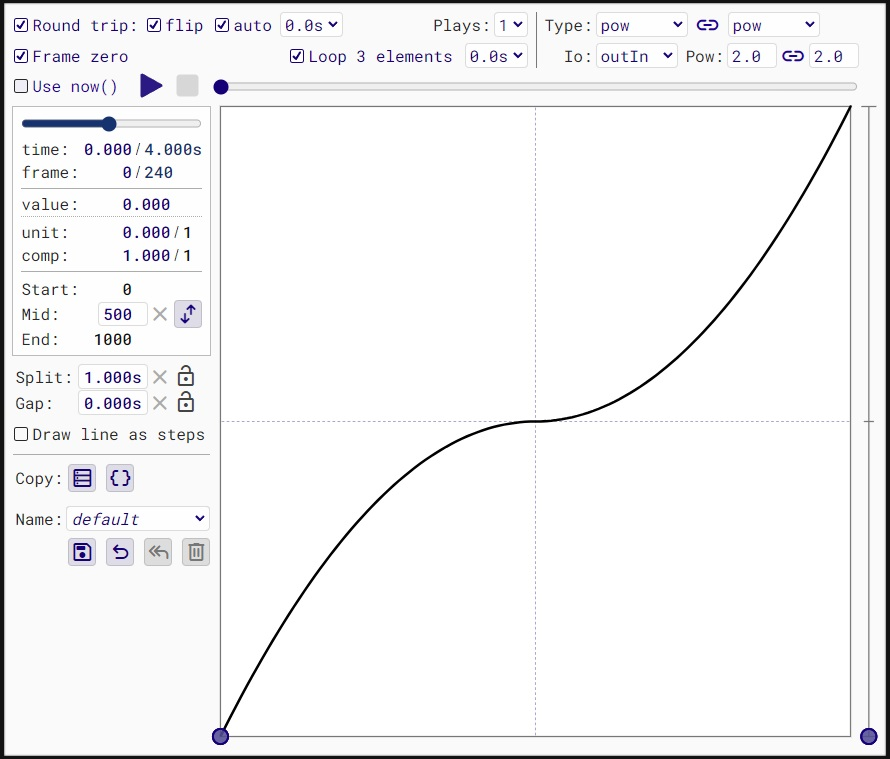
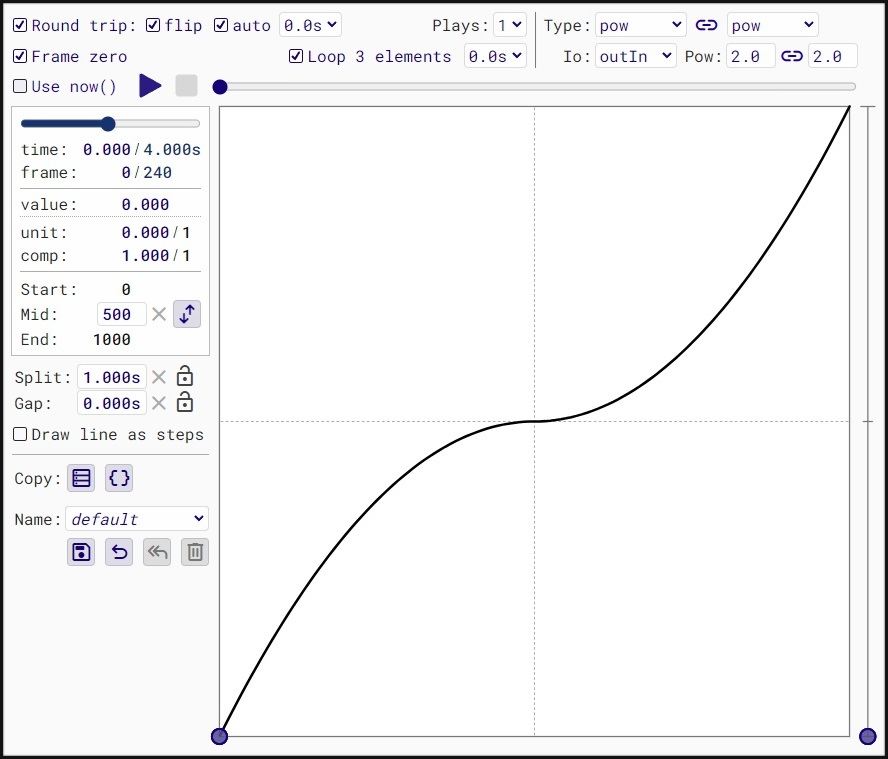
/img filling up, app fixes, offset.svg

diff --git a/apps/index.html b/apps/index.html
@@ -9,55 +9,73 @@
 <!--<h1><object data="/raf/rAFoffset.svg" type="image/svg+xml" style="width:180px; height:180px; border:none;"></object>Apps</h1>-->
     <div style="display:flex; flex-direction:column; width:33%;">
       <div style="display:flex; align-items:center;">
-        <object data="/raf/rAFoffset.svg" type="image/svg+xml" style="width:180px; height:180px;"></object>
+        <object data="/raf/img/rAFoffset.svg" type="image/svg+xml" style="width:180px; height:180px;"></object>
         <h1>Apps</h1>
       </div>
-      <p>These apps were initially conceived for testing the library; then as a way to demonstrate the library; then as a way to generate JavaScript animation code to help fill in for the lack of formal documentation. They all contain Copy Data buttons that copy tabular animation data to the clipboard for analysis and testing. To the right of that button is the Copy Code button, which generates JavaScript code for user-configured animation and copies it to the clipboard.</p>
+      <p>These apps were initially conceived for testing the library; then as a way to demonstrate the library; then as a way to generate JavaScript animation code to help fill in for the lack of formal documentation. They all contain Copy Data buttons that copy tabular animation data to the clipboard for validation and analysis. To the immediate right is the Copy Code button, which generates JavaScript code for the currently configured animation and copies it.</p>
+      <p><span class="rAF">rAF</span> offers a wide variety of interdependent features. Some properties are arrays of user-defined length. Fitting all that into a suite of apps, much less a single app, is not necessarily desirable. It's certainly a monster to code and probably a monster to use. The apps, Easings in particular, limit the available values for some properties in order to make the interface simpler while still meeting testing requirements. The auto-generated JavaScript code is meant as a starting point, not a finished animation. You have to supply your own HTMLElement, SVGElement, or CSSStyleRule regardless. It's should be simple to alter the property values generated by the app and adapt the code to your web page.</p>
+      <p><span class="rAF">rAF</span> uses <a href="https://developer.mozilla.org/en-US/docs/Web/JavaScript/Reference/Classes/Private_properties">private properties</a>, which are not supported by some older versions of browsers. If your browser is not up to date, or if you're using an older device/OS, see <a href="https://caniuse.com/?search=private%20class">caniuse.com</a> for which browser versions offer support (currently 93.07% global support). If the app page doesn't display, this is probably the issue. You might check the Developer Tools console to see if there is any info there.</p>
+      <p>Note that the apps use seconds for the time units. <span class="rAF">rAF</span> uses milliseconds.</p>
+
       <h2>There are three apps available:</h2>
-      <p class="bullet">&#x25CF;&ensp;<a class="bullet" href="/raf/apps/easings">Easings</a><span>&#x2004;are timing functions that can be chained.</span></p>
-      <p class="bullet">&#x25CF;&ensp;<a class="bullet" href="/raf/apps/multi">Multi-Ease</a><span>&#x2004;is multiple easings applied to a single property.</span></p>
-      <p class="bullet">&#x25CF;&ensp;<a class="bullet" href="/raf/apps/color">Color</a><span>&#x2004;applies easings and multi-eases to CSS and Color.js colors.</span></p>
+      <p class="bullet">&#x25CF;&ensp;<a class="bullet" href="/raf/apps/easings">Easings </a>
+        <span class="bullet">are animation timing functions that you can chain.</span>
+      </p>
+      <p class="bullet">&#x25CF;&ensp;<a class="bullet" href="/raf/apps/multi">Multi-Ease </a>
+        <span class="bullet">is multiple easings applied to a single property.</span>
+      </p>
+      <p class="bullet">&#x25CF;&ensp;<a class="bullet" href="/raf/apps/color">Color </a>
+        <span class="bullet">applies easings and multi-eases to CSS and Color.js colors.</span>
+      </p>
 
       <h2 id="easings">Easings</h2>
-      <img src="/raf/img/easings.jpg"/>
-      <p>The Easings app is not for most mobile devices. At or below 675px wide by 749px tall it reduces its size to 75% and bottoms out there.</p>
-      <p>This app allows you to design one or two-legged timing patterns. Timing functions include standard CSS and JQuery functions, with several enhancements. Steps functions are significantly enhanced, with the ability to apply a non-steps easing function to the steps values, timing, or both.  Instead of the JQuery model of separate functions for exponents 2-5, rAF lets you specify any number that the <span class="code">Math.pow()</span> function accepts. And more...</p>
-      <p>The chart is a 1000 x 1000 SVG canvas. You'll note that the Start and End fields generally display either 0 or 1000, reflecting the Y axis value in the chart, the animated value. The X axis is time.</p>
-      <p>What follows is in the terminology of rAF, which is not the same as the labels in the app, but they are similar enough and the text is organized around the app's layout.</p>
+      <img src="/raf/img/easings.jpg" class="scale"/>
+      <p>The Easings app is not designed for mobile phones. At or below 675px wide by 749px tall it reduces its size to 75% and bottoms out there.</p>
+      <p>This app allows you to design one or two-legged timing patterns in a CSS-like model, with flexible ease-in and ease-out settings. <span class="rAF">rAF</span> allows for unlimited legs, but fitting that in an app is awkward. For user convenience, <span class="rAF">rAF</span> also has settings that mimic this same CSS-like model, and this tests most of those features.</p>
+      <p>Timing functions include standard CSS and JQuery functions, with several enhancements. Steps functions are significantly enhanced, with the ability to apply a non-steps easing function to the steps values, timing, or both.  Instead of the JQuery model of separate functions for exponents 2-5, <span class="rAF">rAF</span> lets you specify any number that the <span>Math.pow()</span> function accepts. And more...</p>
+      <p>The chart is a 1000 x 1000 SVG canvas, with extra vertical headroom for out of range values &lt;0 and &gt;1000. You'll note that the Start and End fields generally display either 0 or 1000, reflecting the Y axis in the chart, the animated value. The X axis is time, so the numeric display is in seconds, not chart units.</p>
+      <p style="font-style:italic">What follows is in the terminology of <span class="rAF">rAF</span>, which is not the same as the labels in the app, but they are similar enough and it's organized around the app's layout.</p>
       <p>There are 4 Round Trip properties:
-        <br>&emsp;3 booleans: <span class="code">roundTrip flipTrip autoTrip</span>
-        <br>&emsp;1 number: <span class="code">tripWait</span>
+        <br>&emsp;3 booleans: <span>roundTrip flipTrip autoTrip</span>
+        <br>&emsp;1 number: <span>tripWait</span>
       </p>
-      <p><span class="code">roundTrip</span> turns the feature on or off and enables or disables the other 3 properties.</p>
-      <p><span class="code">flipTrip</span> defaults to true, wherein the return aka inbound trip follows the same line as the outbound trip. Setting flipTrip to false causes the inbound trip's line to mirror the outbound trip. Give it a try with any <span class="code">type</span> other than <span class="code">linear</span>, and the chart will illustrate it clearly. It has no effect on linear.</p>
-      <p><span class="code">autoTrip</span> also defaults to true, wherein the animation automatically executes the inbound trip after the outbound trip ends.  The more unusual setting is false, where the animation stops at the end of the outbound trip, but stays in that state so the user can initiate the return trip. You cannot combine <span class="code">autoTrip</span> = false with <span class="code">plays</span> = greater than 1.</p>
-      <p><span class="code">tripWait</span> is the number of milliseconds to wait between the end of the outbound trip and the start of the inbound trip.  It affects <span class="code">autoTrip</span> = false too, acting the same as the <span class="code">Easy.prototype.wait</span> property does for the outbound trip. (The <span class="code">wait</span> property is not included in this app as there are already too many inputs and it's easily tested.)</p>
-      <p><span class="code">plays</span> is the number of times the animation plays. It is a minimum of 1. The app limits it to a max of 3.</p>
-      <p><span class="code">plays</span> and <span class="code">loopByElm</span> share a drop-down and a property: <span class="code">loopWait</span> is the number milliseconds between plays or loops by element.</p>
-      <p><span class="code">loopByElm</span> is a boolean that causes the animation to loop one element at a time.</p>
-      <p><span class="code">frameZero</span> is in the app for testing only. It's a fine detail of a setting that I'm not going to explain here now. If you're really curious look at the code in <span class="code">aframe.js</span>, which has some explanatory comments.</p>
-      <p><span class="code">useNow</span> uses <span class="code">performance.now()</span> as its time source instead of the <span class="code">requestAnimationFrame()</span> timestamps and <span class="code">document.timeline.currentTime</span>.</p>
+      <p><span>roundTrip</span> turns the feature on or off and enables or disables the other 3 properties.</p>
+      <p><span>flipTrip</span> defaults to <span>true</span>: the return aka inbound trip follows the same line as the outbound trip. Setting flipTrip to <span>false</span> causes the inbound trip's line to mirror the outbound trip. Give it a try with any <span>type</span> other than <span>linear</span>, and the chart will illustrate it clearly. It makes no difference for linear.</p>
+      <p><span>autoTrip</span> also defaults to <span>true</span>: the animation automatically executes the inbound trip after the outbound trip ends.  The more unusual setting is <span>false</span>, where the animation stops at the end of the outbound trip, but stays in that state so the user can initiate the return trip. You cannot combine <span>autoTrip</span> = <span>false</span> with <span>plays</span> = greater than 1.</p>
+      <p><span>tripWait</span> is the number of milliseconds to wait between the end of the outbound trip and the start of the inbound trip.  It affects <span>autoTrip</span> = <span>false</span> too, acting the same as the <span>Easy.prototype.wait</span> property does for the outbound trip. (The <span>wait</span> property is not included in this app as there are already too many inputs and it's easily tested.)</p>
+      <p><span>plays</span> is the number of times the animation plays. It is an integer, minimum of 1. The app limits it to a max of 3.</p>
+      <p><span>plays</span> and <span>loopByElm</span> share a drop-down and a property: <span>loopWait</span> is the number milliseconds between plays or loops by element. The app limits it via the drop-down options.</p>
+      <p><span>loopByElm</span> is a boolean that causes the animation to loop one element at a time.</p>
+      <p><span>frameZero</span> is in the app for testing only. It's a fine detail of a setting that I'm not going to explain here now. If you're really curious look at the code in <span>aframe.js</span>, which has some explanatory comments.</p>
+      <p><span>useNow</span> uses <span>performance.now()</span> instead of the <span>requestAnimationFrame()</span> timestamps and <span>document.timeline.currentTime</span>.</p>
+      <p><span>mid</span>, <span>split</span>, <span>gap</span> are for two-legged easings only. They are shorthands for individual leg properties.</p>
+      <p><span>mid</span> is the animation value at which the legs change. Defaults to 50% of the distance, in this case 500.</p>
+      <p><span>split</span> is the animation time at which the legs change. Defaults to 50%.</p>
+      <p><span>gap</span> is the number of milliseconds to wait between the end of the first leg and the start of the second. Defaults to zero.</p>
+      <p><span class="bullet" style="font-weight:500;">Draw line as steps</span> is not an <span class="rAF">rAF</span> feature. It is an app feature that draws the chart's line as one step per frame. It's especially useful for viewing multiple frames with a static value, as with <span>gap</span>.</p>
 
       <h2 id="multi">Multi-Ease</h2>
+      <img src="/raf/img/multi.jpg"/>
       <p>The Multi-Ease app is designed to be used on recent mobile devices as well as desktops. Baseline size is ....</p>
-      <p>This app allows you to configure animations where you choose a separate timing pattern for each argument in a CSS property or function. It is fixed at 3 timing patterns, which is enough to test, demonstrate, and create starting point code. It animates the CSS <span class="code">clip-path</span> property using the <span class="code">polygon()</span> function. Multi-eases can apply to properties/functions that have multiple arguments, or to "unstructured" properties/functions such as gradients and shapes.</p>
+      <p>This app allows you to configure animations where you choose a separate timing pattern for each argument in a CSS property or function. It is fixed at 3 timing patterns, which is enough to test, demonstrate, and create starting point code. It animates the CSS <span>clip-path</span> property using the <span>polygon()</span> function. The shape is filled with a diagonal gradient to prove that it's one shape. Multi-eases can apply to properties/functions that have multiple arguments, or to "unstructured" properties/functions such as gradients and shapes.</p>
 
       <h2 id="color">Color</h2>
+      <img src="/raf/img/color.jpg"/>
       <p>The Color app is designed to be used on recent mobile devices as well as desktops. Baseline size is ....</p>
-      <p>This app allows you to configure and view color animations using CSS and <a href="https://colorjs.io">Color.js</a> color spaces. You can assign any preset or user easing or multi-ease to the animation. In addition it offers a side-by-side comparison mode where you can compare the same animation for two color spaces.</p>
+      <p>This app allows you to configure and view color animations using CSS and <a href="https://colorjs.io">Color.js</a> color spaces. You can assign any preset or user easing or multi-ease to the animation. It offers a side-by-side comparison mode where you can compare the same animation across two color spaces. You must turn Compare off to access the Copy buttons, which are for a single color. With Compare off you can also highlight out-of-gamut values.</p>
 
       <h2 id="common-features">Common Features</h2>
-      <p>All the apps have tooltips for most of the controls. They are enabled by hovering the mouse pointer over the control. If you only have a touch interface then you'd be out of luck were it not for this bit of documentation. The tooltips are implemented in the standard way, as <span class="code">title</span> attribute values.</p>
-      <img src="/raf/img/playback.jpg"/>
-      <p>The playback and time navigation controls are quite standard. Two playback buttons that default to Play and Stop. They change icons during playback to Pause/Resume and Reset. The slider aka range control navigates time when playback is idle. During playback it animates, but is disabled for user control.</p>
-      <img src="/raf/img/named+copy.jpg" style="margin-top:0.75rem"/>
+      <p>All the apps have tooltips for most of the controls. They are enabled by hovering the mouse pointer over the control. If you only have a touch interface then you'd be out of luck were it not for this bit of documentation. The tooltips are implemented in the standard way, as <span>title</span> attribute values.</p>
+      <img src="/raf/img/playback.jpg" class="sub"/>
+      <p>The playback and time navigation controls are quite standard. Two playback buttons that default to Play and Stop. They change icons during playback to Pause/Resume and Reset. The slider aka range control navigates time when playback is idle. During playback it animates, but is disabled for user control. The slider is rendered differently by each browser and I have not gone the extra mile to style it with the browser-specific CSS tags/properties. The images above are all from Chrome.</p>
+      <img src="/raf/img/named+copy.jpg" class="sub"/>
       <p>All the apps have one or more drop-down lists for selecting a named easing or multi. In the Easings and Multi apps the primary one is labeled Name. For steps, Easings has two more such drop-downs, one for Timing, the other for Values. Multi has three of them labeled Easy.  In the Color app they are labeled Easy and Multi.</p>
-      <p>These drop-downs contain presets supplied by the app. In Easings and Multi you can and user-defined configurations as well. Those are saved to <span class="code">localStorage</span>. They are all available in Color, but Color does not have a save button to save its own settings.</p>
+      <p>These drop-downs contain presets supplied by the app. In Easings and Multi you can add user-defined configurations as well. Those are saved to <span>localStorage</span>. They are all available for selection in Color, but Color does not have a Save button.</p>
       <p>In Easings and Multi, there are 4 buttons that accompany the primary dropdown: Save, Revert to last saved, Revert to preset value, Delete user configuration (can't delete presets).</p>
       <p>There are two Copy buttons: Data and Code. Copy Data copies the currently displayed animation or pseudo-animation's data, by frame, to the clipboard. The clipboard data includes one row of text headers. The first column is always time. After that it varies by app. I use this feature to validate timing functions in a spreadsheet. I paste the data in and spread forumulas around to validate the numbers.</p>
-      <p>Copy Code generates starting point code for implementing the current animation, and copies it to the clipboard. I hope this helps users get started using and learning rAF. Custom examples is a nice way to get started, at least that's my hope.</p>
+      <p>Copy Code generates starting point code for implementing the current animation, and copies it to the clipboard. I hope this helps users get started using and learning <span class="rAF">rAF</span>. Custom examples is a nice way to get started, at least that's my hope.</p>
 
-      <p>If you're curious about the way rAF estimates the device/browser frame rate, open the Developer Tools console.  All the apps log the frame timing data and summaries used by  <span class="code">AFrame.prototype.fpsBaseline()</span> in the calculation. The JavaScript code that runs it is in <span class="code">/apps/load.js/loadFinally()</span>. I say "device/browser" frame rate because some devices don't make all their frame rates available to the browser.  My current Android phone is an example of that.</p>
+      <p>If you're curious as to how <span class="rAF">rAF</span> estimates the device/browser frame rate, open the Developer Tools console.  The apps log the frame timing data and summaries that  <span>AFrame.prototype.fpsBaseline()</span> uses to calculate it. The JavaScript code that runs the baseline calculation is in <span>/apps/load.js/loadFinally()</span>. I say "device/browser" frame rate because some devices don't make all their frame rates available to the browser.  My current Android phone does that.</p>
 
     </div>
   </body>

diff --git a/apps/load.js b/apps/load.js
@@ -52,18 +52,18 @@ async function loadCommon() {
         arr.push(document.getElementById(id));
 
     for (elm of arr)
-        dlg[elm.id] = elm;
+        Ez.readOnly(dlg, elm.id, elm);
 
     for (elm of byTag.flat())         // populate elms by id
         if (elm.id)                   // most <div>, <label>, <span>s have no id
-            elms[elm.id] = elm;
-                                      // elms.x doesn't disable the normal way
-    byTag[0].splice(byTag[0].indexOf(elms.x), 1);
-    Ez.readOnly(g, "buttons",  byTag[2]);          // <button>, see disablePlay()
-    Ez.readOnly(g, "playback", byTag.at(-3));      // <state-button> #play,#stop
+            elms[elm.id] =  elm;      // replaceWith(clone) in color: !readOnly
+
+    byTag[0].splice(byTag[0].indexOf(elms.x), 1);  // elms.x disables abnormally
     Ez.readOnly(g, "disables", [...byTag[0],       // <input>
                                 ...byTag[1],       // <select>
                                 ...byTag.at(-2)]); // <check-box>
+    Ez.readOnly(g, "buttons",  byTag[2]);          // <button>, see disablePlay()
+    Ez.readOnly(g, "playback", byTag.at(-3));      // <state-button> #play,#stop
     Ez.readOnly(g, "invalids", new Set);           // <input>s w/invalid values
 
     elm = elms.plays ?? elms.plays0;  // plays0 is multi

diff --git a/apps/index.css b/apps/index.css
@@ -38,7 +38,11 @@
   src:url("/fonts/ShipporiAntique-Regular.ttf") format("truetype");
 }
 img {
+  align-self:center;
   margin-bottom:0.75rem;
+}
+img.scale {
+  align-self:unset;
 }
 h1 {
   font-family:"Averia";
@@ -52,21 +56,31 @@ h2, p.bullet {
   font-family:"Radio Canada Big";
   font-weight:500;
 }
-h2 {
-  margin:0.5rem 0;
-  font-size:22px;
+h2, img.sub{
+  margin:0.75rem 0 0.5rem;
+  font-size:23px;
 }
 p.bullet {
-  margin:0.5rem;
+  margin:0.25rem 0 0.5rem;
   font-size:18px;
 }
 p {
   font-family:"Shippori Antique";
   margin:0 0 0.25rem;
 }
+p + p {
+  margin-top: 0.5rem;
+}
 span {
-  font-family:"Radio Canada Big";
+  font-family:"Roboto Mono";
   font-weight:400;
+}
+span.bullet {
+  font-family:"Radio Canada Big";
+}
+.rAF {
+  font-family:"Roboto Mono";
+  font-weight:500;
 }
 a {
   color:black;
@@ -76,11 +90,11 @@ a.bullet {
   text-decoration:none;
 }
 a:hover {
-  color:blue;
+  color:rgb(0 0 204);
 }
 a:active:hover {
   color:purple;
 }
 .code {
-  font-family:"Roboto Mono"
+  font-family:"Roboto Mono";
 }

diff --git a/apps/multi/_update.js b/apps/multi/_update.js
@@ -13,7 +13,7 @@ import {E, U, F, P, Easy} from "../../src/raf.js";
 import {ezX}            from "../load.js";
 import {storeCurrent}   from "../local-storage.js";
 import {COUNT, elms, g} from "../common.js";
-import {frames, pad, formatNumber, eGet, pseudoAnimate}
+import {D, frames, pad, formatNumber, eGet, pseudoAnimate}
                         from "../update.js";
 
 import {clipEnd, clipStart} from "./_load.js";
@@ -51,7 +51,9 @@ function newTargets(isPseudo) {                 // isPseudo is always defined
 //==============================================================================
 // getMsecs() returns the full run-time in milliseconds
 function getMsecs() {
-    return measer.duration;
+    const md = measer.duration;
+    pad.secs = D + (md >= 10000 ? 3 : 2);
+    return md;
 //!!let first, t;
 //!!const
 //!!trips = elms.trip .map( elm => elm.checked && P.isVisible(elm)),

diff --git a/apps/easings/_named.js b/apps/easings/_named.js
@@ -39,7 +39,7 @@ function formFromObj(obj) {
     elms.type.value = g.type;
     elms.io  .value = g.io;
 
-    val = obj.time || (leg0?.time + leg1?.time);
+    val = obj.time || (leg0?.time + leg1?.time + leg1?.wait);
     if (val)                   // steps: user time doesn't use obj.time
         elms.time.value = val;
     elms.time.dispatchEvent(new Event(INPUT)); // input.time()=>timeFrames()

diff --git a/apps/update.js b/apps/update.js
@@ -42,7 +42,7 @@ async function loadUpdate(isMulti, dir) {
         frames[0] = {t:0, x:Array.from({length:COUNT}, () => new Object)};
         pad.value = pad.milli;
     }
-    Object.freeze(pad);
+    Object.seal(pad);
 
     isContinuing = false;                 // not strictly necessary
     elms.x.addEventListener(INPUT, inputX, false);

diff --git a/apps/multi/index.css b/apps/multi/index.css
@@ -98,7 +98,7 @@ input[type=color] {
 .counter  {
   align-items:baseline;
   margin:0;
-  padding:var(--16th) var(--5-16ths) 0 var(--5-16ths);
+  padding:var(--16th) var(--5-16ths) 0 var(--3-8ths);
   color:var(--dark-blue);
   border-bottom: var(--border-gray);
 }
